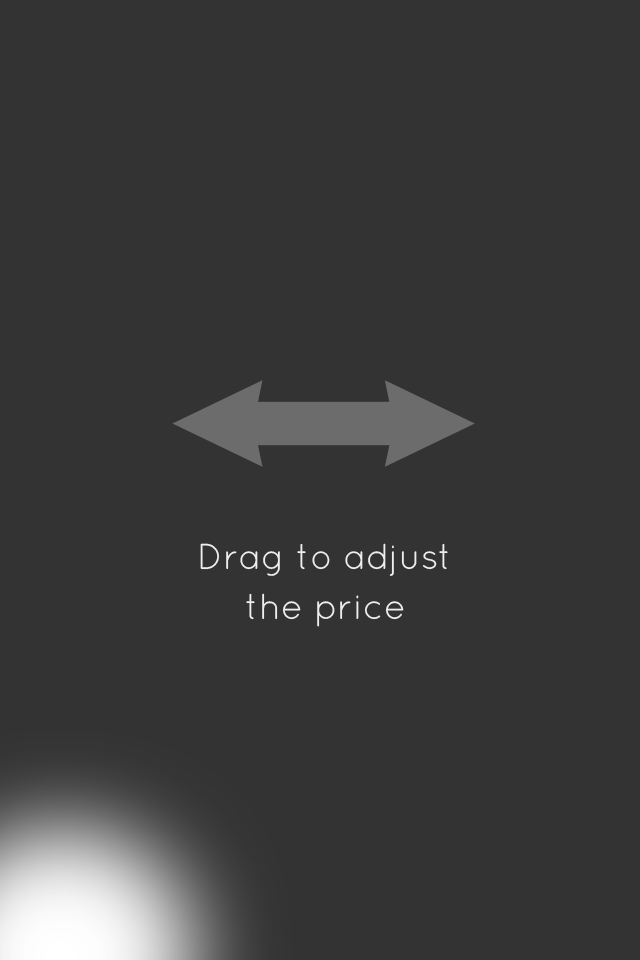
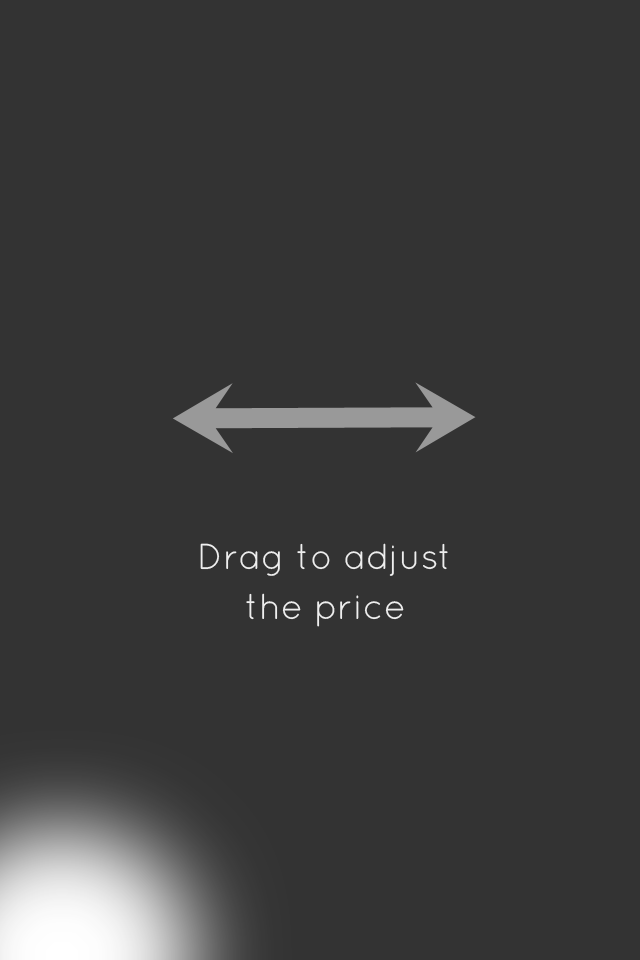
Refactor 'drag-to-adjust-price' feature by using the enyo.ScrollMath kind

Changed region(s): [[0.2812, 0.375, 0.75, 0.5]]

diff --git a/source/ChuForm.js b/source/ChuForm.js
@@ -23,6 +23,81 @@ enyo.kind({
     },
     price: 0,
     category: "head",
+    //* Whether or not the scroller is actively moving
+    isScrolling: function() {
+        return this.$.scrollMath.isScrolling();
+    },
+    flick: function(inSender, e) {
+        var onAxis = Math.abs(e.xVelocity) > Math.abs(e.yVelocity) ? this.$.scrollMath.horizontal : this.$.scrollMath.vertical;
+        if (onAxis && this.dragging) {
+            this.$.scrollMath.flick(e);
+        }
+    },
+    hold: function(inSender, e) {
+        this.$.scrollMath.stop(e);
+        return true;
+    },
+    // Special synthetic DOM events served up by the Gesture system
+    dragstart: function(inSender, inEvent) {
+        // Ignore drags sent from multi-touch events
+        if(inEvent.srcEvent.touches && inEvent.srcEvent.touches.length > 1) {
+            return true;
+        }
+        this.dragging=true;
+        if (this.dragging) {
+            inEvent.preventDefault();
+            // note: needed because show/hide changes
+            // the position so sync'ing is required when
+            // dragging begins (needed because show/hide does not trigger onscroll)
+            this.syncScrollMath();
+            this.$.scrollMath.startDrag(inEvent);
+        }
+    },
+    drag: function(inSender, inEvent) {
+        if (this.dragging) {
+            inEvent.preventDefault();
+            this.$.scrollMath.drag(inEvent);
+        }
+    },
+    dragfinish: function(inSender, inEvent) {
+        if (this.dragging) {
+            inEvent.preventTap();
+            this.$.scrollMath.dragFinish();
+            this.dragging = false;
+        }
+    },
+    scrollMathScroll: function(inSender) {
+        this.price = Math.max(0, inSender.x/10);
+        this.$.price.setContent(Math.floor(this.price) + " €");
+    },
+    scrollMathStart: function() {
+        this.startAdjustPrice();
+    },
+    scrollMathStop: function() {
+        this.finishAdjustPrice();
+    },
+    syncScrollMath: function() {
+        var m = this.$.scrollMath;
+        m.setScrollX(this.price*10);
+    },
+    startAdjustPrice: function() {
+        if (this.finishDragTimeout) {
+            clearTimeout(this.finishDragTimeout);
+            this.finishDragTimeout = null;
+        }
+        this.addClass("adjusting-price");
+    },
+    finishAdjustPrice: function() {
+        this.finishDragTimeout = setTimeout(enyo.bind(this, function() {
+            this.removeClass("adjusting-price");
+        }), 500);
+    },
+    priceTapped: function() {
+        this.startAdjustPrice();
+        setTimeout(enyo.bind(this, function() {
+            this.finishAdjustPrice();
+        }), 1000);
+    },
     /**
         Clear content from previous chu
     */
@@ -47,23 +122,6 @@ enyo.kind({
     },
     getPrice: function() {
         return Math.floor(this.price);
-    },
-    dragStart: function() {
-        if (this.finishDragTimeout) {
-            clearTimeout(this.finishDragTimeout);
-            this.finishDragTimeout = null;
-        }
-        this.$.price.addClass("highlighted");
-    },
-    dragFinish: function() {
-        this.finishDragTimeout = setTimeout(enyo.bind(this, function() {
-            this.$.price.removeClass("highlighted");
-        }), 500);
-    },
-    drag: function(sender, event) {
-        this.price = Math.max(0, this.price + event.dx / 100);
-        this.$.price.setContent(Math.floor(this.price) + " €");
-        return true;
     },
     tap: function(sender, event) {
         if (!event.originator.isDescendantOf(this.$.categoryPicker) && this.$.categoryPicker.hasClass("open")) {
@@ -129,9 +187,9 @@ enyo.kind({
         ]},
         // IMAGE WITH CONTROLS
         {name: "imageContainer", fit: true, classes: "chuform-imagecontainer",
-            ondrag: "drag", ondragstart: "dragStart", ondragfinish: "dragFinish", components: [
+            onflick: "flick", onhold: "hold", ondragstart: "dragstart", ondrag: "drag", ondragfinish: "dragfinish", components: [
             // PRICE
-            {classes: "chuform-price", name: "price", content: "0 €"},
+            {classes: "chuform-price", name: "price", content: "0 €", ontap: "priceTapped"},
             //CATEGORY
             {classes: "chuform-category-picker", name: "categoryPicker", ontap: "toggleCategoryPicker", components: [
                 {classes: "category-icon chuform-category-icon feet", value: "feet", ontap: "selectCategory"},
@@ -139,7 +197,13 @@ enyo.kind({
                 {classes: "category-icon chuform-category-icon torso", value: "torso", ontap: "selectCategory"},
                 {classes: "category-icon chuform-category-icon accessoires", value: "accessoires", ontap: "selectCategory"},
                 {classes: "category-icon chuform-category-icon head selected", value: "head", ontap: "selectCategory"}
+            ]},
+            {name: "dragIndicator", classes: "chuform-drag-indicator", components: [
+                {classes: "chuform-drag-indicator-arrow"},
+                {classes: "chuform-drag-indicator-text", content: "drag to adjust"}
             ]}
-        ]}
+        ]},
+        {kind: "ScrollMath", onScrollStart: "scrollMathStart", onScroll: "scrollMathScroll", onScrollStop: "scrollMathStop",
+            leftBoundary: 100000, rightBoundary: 0, vertical: false, horizontal: true, kFrictionDamping: 0.95}
     ]
 });

diff --git a/source/css/ChuForm.css b/source/css/ChuForm.css
@@ -1,4 +1,5 @@
 .chuform-imagecontainer {
+	position: relative;
 	background: none no-repeat center top;
 	background-size: cover;
 	background-color: Gray;
@@ -12,20 +13,22 @@
 	line-height: 20pt;
 	color: White;
 	text-shadow: 0 0 5px #000;
-	-webkit-transition-property: bottom, width, -webkit-transform;
+	-webkit-transition-property: bottom, left, width, -webkit-transform;
 	-webkit-transition-duration: 0.3s;
 	text-align: center;
 	white-space: nowrap;
 }
 
-.chuform-price.highlighted {
+.chuform.adjusting-price .chuform-price {
 	-webkit-transform: scale(2);
 	width: 100%;
 	bottom: 300px;
+	left: 0;
 }
 
 .chuform-category-picker {
 	position: absolute;
+	z-index: 10;
 	right: 10px;
 	bottom: 10px;
 	width: 36px;
@@ -42,4 +45,33 @@
 .chuform-category-icon.selected,
 .chuform-category-picker.open > .chuform-category-icon {
 	opacity: 1;
+}
+
+.chuform-drag-indicator {
+	position: absolute;
+	width: 100%;
+	bottom: 130px;
+	text-align: center;
+	opacity: 0;
+	-webkit-transition-property: opacity;
+	-webkit-transition-duration: 0.5s;
+}
+
+.chuform.adjusting-price .chuform-drag-indicator {
+	opacity: 1;
+}
+
+.chuform-drag-indicator-arrow {
+	width: 156px;
+	height: 38px;
+	background: url(../../assets/images/drag_arrow.png) no-repeat center center;
+	background-size: cover;
+	margin: 0 auto;
+}
+
+.chuform-drag-indicator-text {
+	color: White;
+	text-shadow: 0 0 5px #000;
+	font-size: 15pt;
+	padding: 10px;
 }
